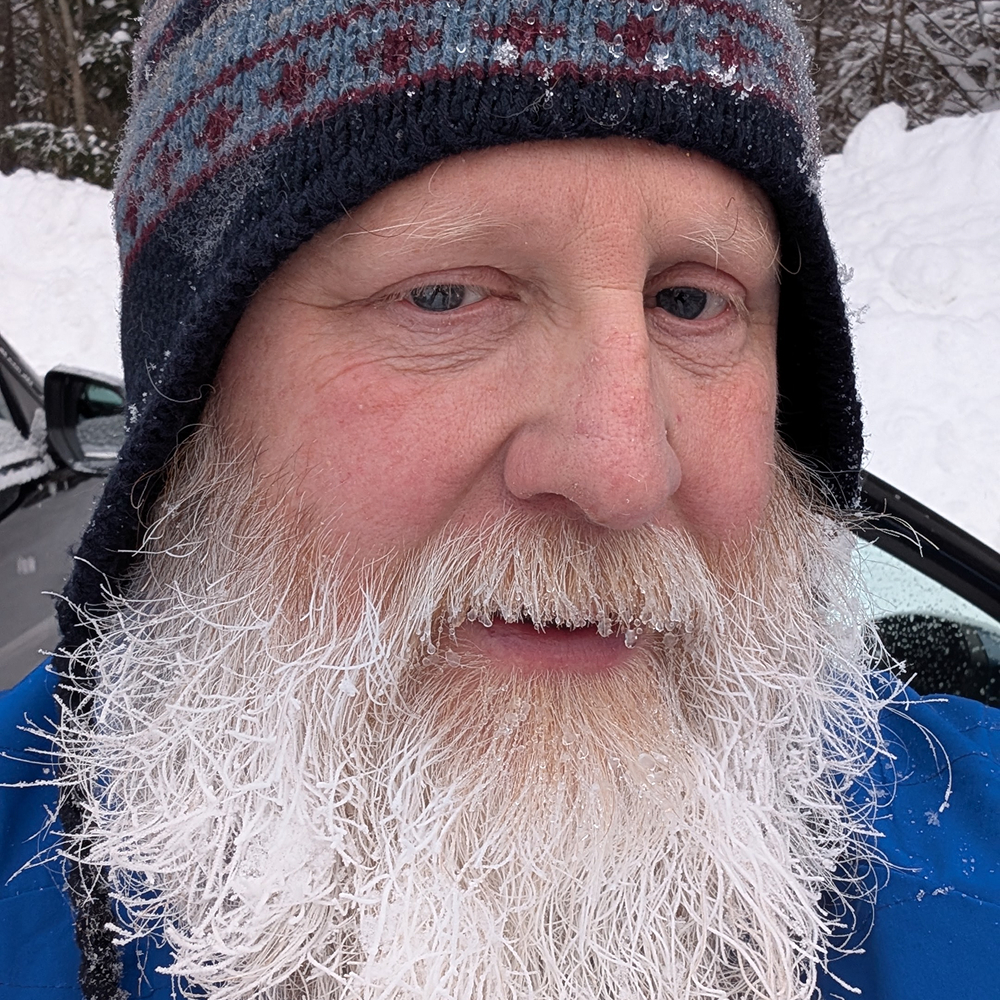
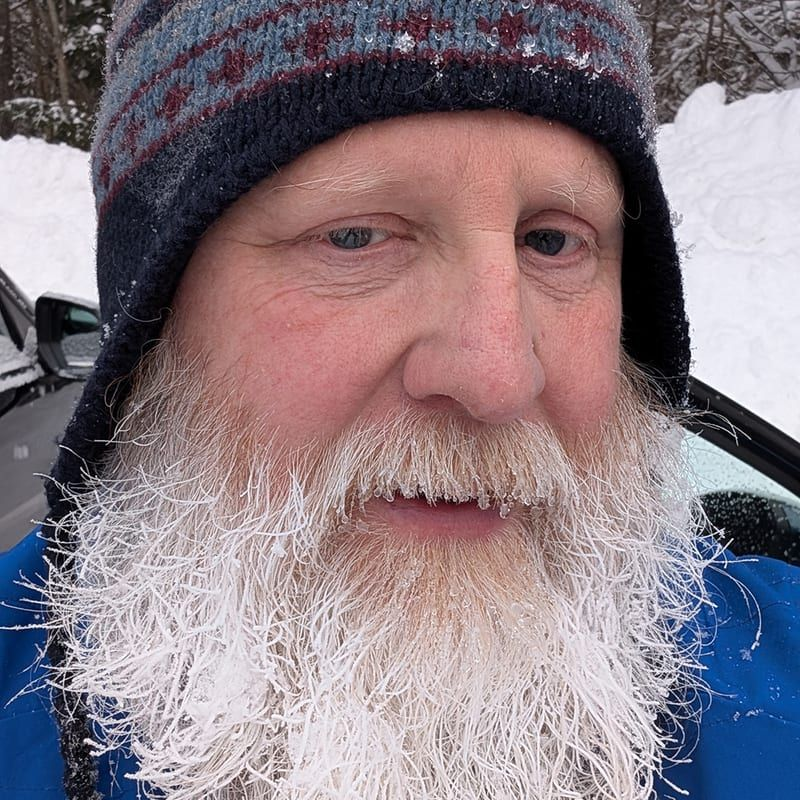
Add four new photos: the About strip grows to ten and Home gets the frozen-beard portrait (CNT-8, MIG-1, TECH-6)

diff --git a/src/components/molecules/PhotoStrip.tsx b/src/components/molecules/PhotoStrip.tsx
@@ -1,6 +1,6 @@
 /**
  * Molecule: the strip of real photos on About (CNT-8, DSN-6). Five across on
- * desktop, three on phones.
+ * desktop, three across on phones, where the strip is capped at nine.
  */
 import Image from "next/image";
 import type { About } from "@/lib/content";
@@ -16,8 +16,8 @@ export function PhotoStrip({ photos, caption }: { photos: About["photos"]; capti
             alt={photo.alt}
             width={photo.width}
             height={photo.height}
-            sizes="(min-width: 54rem) 220px, 33vw"
-            className={`aspect-square w-full rounded-lg object-cover ${i >= 3 ? "hidden md:block" : ""}`}
+            sizes="(min-width: 54rem) 208px, 33vw"
+            className={`aspect-square w-full rounded-lg object-cover ${i >= 9 ? "hidden md:block" : ""}`}
           />
         ))}
       </div>
